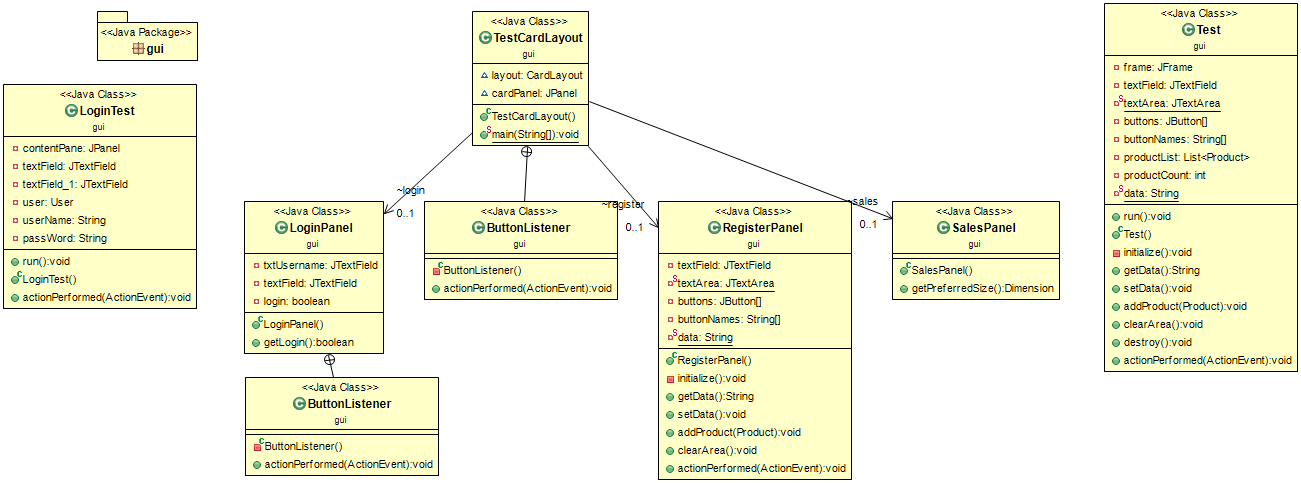
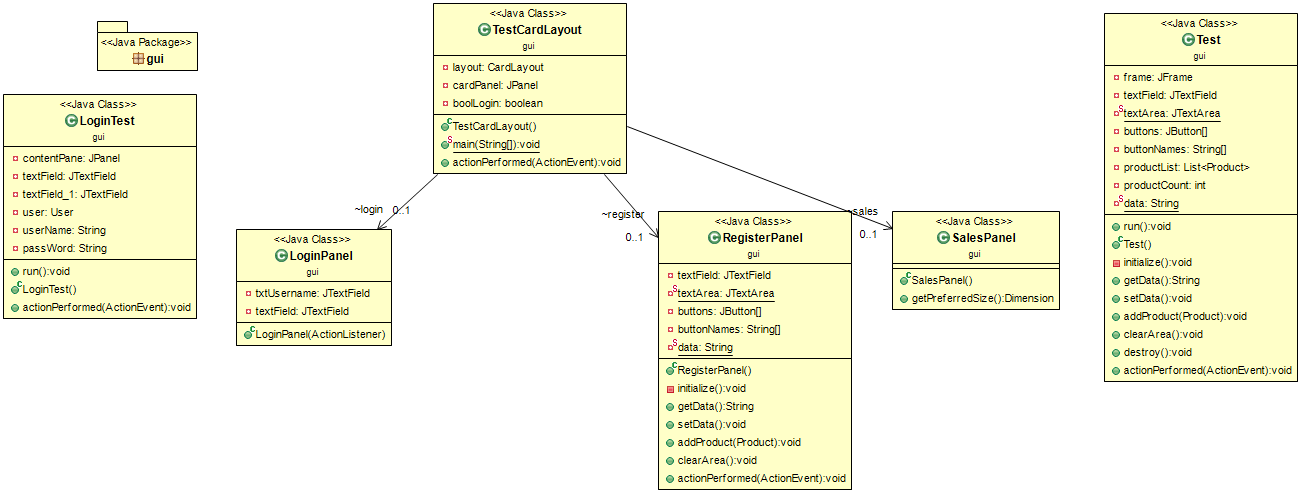
Mer gui damp

Changed region(s): [[0.1845, 0.0, 1.0, 0.9938], [0.0, 0.0, 0.1537, 0.6522], [0.1845, 0.7764, 0.3382, 0.9938]]

diff --git a/Cashier/gui/TestCardLayout.java b/Cashier/gui/TestCardLayout.java
@@ -10,26 +10,30 @@ import javax.swing.JFrame;
 import javax.swing.JPanel;
 import javax.swing.SwingUtilities;
 
-public class TestCardLayout {
+public class TestCardLayout implements ActionListener{
 
-    LoginPanel login = new LoginPanel();
-    RegisterPanel register = new RegisterPanel();
-    SalesPanel sales = new SalesPanel();
+//	private static ActionListener listener = new Listener();
+	
+    private LoginPanel login = new LoginPanel(this);
+    private RegisterPanel register = new RegisterPanel();
+    private SalesPanel sales = new SalesPanel();
 
-    CardLayout layout = new CardLayout();
-    JPanel cardPanel = new JPanel(layout);
+    private CardLayout layout = new CardLayout();
+    private JPanel cardPanel = new JPanel(layout);
+    
+    private boolean boolLogin = false;
 
     public TestCardLayout() {
         JButton showOne = new JButton("Show One");
         JButton showTwo = new JButton("Show Two");
-        JButton showThree = new JButton("Show Trree");
+        JButton showThree = new JButton("Show Three");
         JPanel buttonsPanel = new JPanel();
         buttonsPanel.add(showOne);
         buttonsPanel.add(showTwo);
         buttonsPanel.add(showThree);
-        showOne.addActionListener(new ButtonListener());
-        showTwo.addActionListener(new ButtonListener());
-        showThree.addActionListener(new ButtonListener());
+        showOne.addActionListener(this);
+        showTwo.addActionListener(this);
+        showThree.addActionListener(this);
         
         cardPanel.add(login, "login");
         cardPanel.add(register, "register");
@@ -47,24 +51,29 @@ public class TestCardLayout {
         frame.setVisible(true);
     }
 
-    private class ButtonListener implements ActionListener {
-//big time derps going down
-        public void actionPerformed(ActionEvent e) {
-            String command = e.getActionCommand();
-            if ("Show One".equals(command)) {
-                layout.show(cardPanel, "login");
-            } else if ("Show Two".equals(command)) {
-                layout.show(cardPanel, "register");
-            } else {
-                layout.show(cardPanel, "sales");
-            }
-            System.out.println(login.getLogin());
-        /*    if(login.getLogin()) {
-            	layout.show(cardPanel, "panel 2");
-            } */
-        }
-    }
-
+	@Override
+	public void actionPerformed(ActionEvent e) {
+		   String command = e.getActionCommand();
+           if ("Show One".equals(command)) {
+               layout.show(cardPanel, "login");
+           } else if ("Show Two".equals(command)) {
+               layout.show(cardPanel, "register");
+           } else {
+               layout.show(cardPanel, "sales");
+           }
+        //   System.out.println(login.getLogin());
+           System.out.println(boolLogin);
+           if(command.equals("Login")) {
+	           	
+	           	boolLogin = true;
+	           	System.out.println(boolLogin);
+	           	layout.show(cardPanel, "register");
+           } /*else(command.equals("Logout")){
+        	   boolLogin = false;
+        	   layout.show(cardPanel, "login");
+           }*/
+	}
+    
     public static void main(String[] args) {
         SwingUtilities.invokeLater(new Runnable() {
             @Override
@@ -73,4 +82,5 @@ public class TestCardLayout {
             }
         });
     }
+
 }

diff --git a/Cashier/gui/LoginPanel.java b/Cashier/gui/LoginPanel.java
@@ -1,6 +1,5 @@
 package gui;
 
-import java.awt.event.ActionEvent;
 import java.awt.event.ActionListener;
 
 import javax.swing.JButton;
@@ -12,18 +11,18 @@ public class LoginPanel extends JPanel {
 	private JTextField txtUsername;
 	private JTextField textField;
 
-	private volatile boolean login = false;
+//	private volatile boolean login = false;
 	
 	/**
 	 * Create the panel.
 	 */
-	public LoginPanel() {
+	public LoginPanel(ActionListener al) {
 		setLayout(null);
 		
 		txtUsername = new JTextField();
 		txtUsername.setBounds(180, 100, 86, 20);
 		add(txtUsername);
-		txtUsername.setColumns(10);
+		txtUsername.setColumns(10);	
 		
 		JLabel lblUsername = new JLabel("Username");
 		lblUsername.setBounds(180, 75, 70, 14);
@@ -42,21 +41,21 @@ public class LoginPanel extends JPanel {
 		btnLogin.setBounds(180, 187, 89, 23);
 		add(btnLogin);
 		
-		 btnLogin.addActionListener(new ButtonListener());
+		btnLogin.addActionListener(al);
 
 	}
 	
-	public boolean getLogin() {
-		return login;
-	}
+//	public boolean getLogin() {
+	//	return login;
+//	}
 	
-	private class ButtonListener implements ActionListener {
+/*	private class ButtonListener implements ActionListener {
 
         public void actionPerformed(ActionEvent e) {
             String command = e.getActionCommand();
-            login = true;
-            System.out.println(command + " " + login);
+   //         login = true;
+   //         System.out.println(command + " " + login);
         }
-    }
+    } */
 }
 
